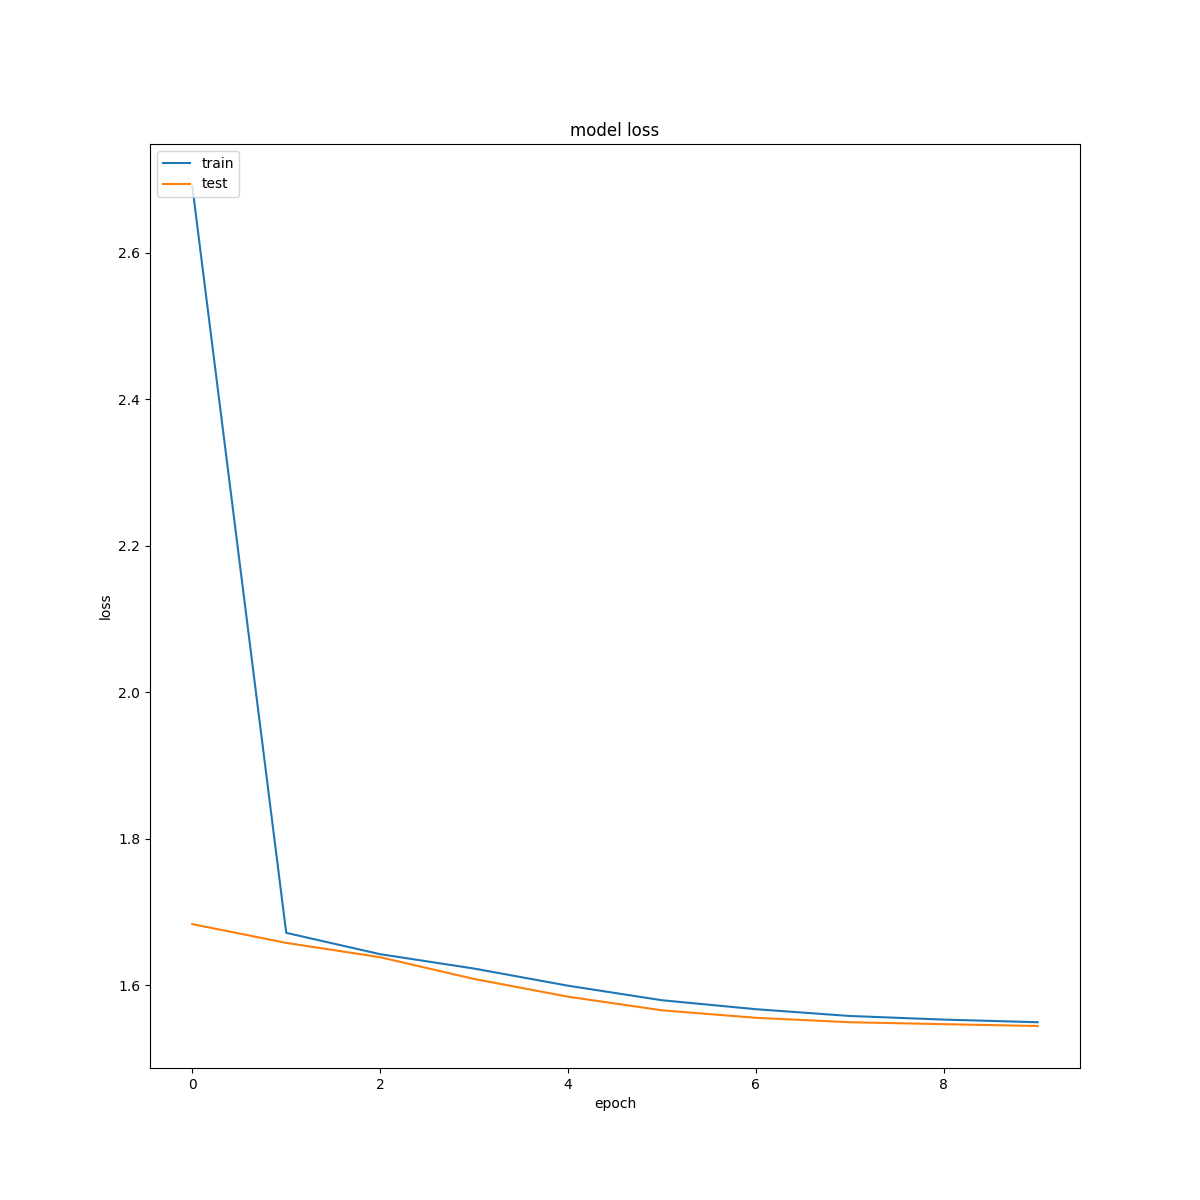
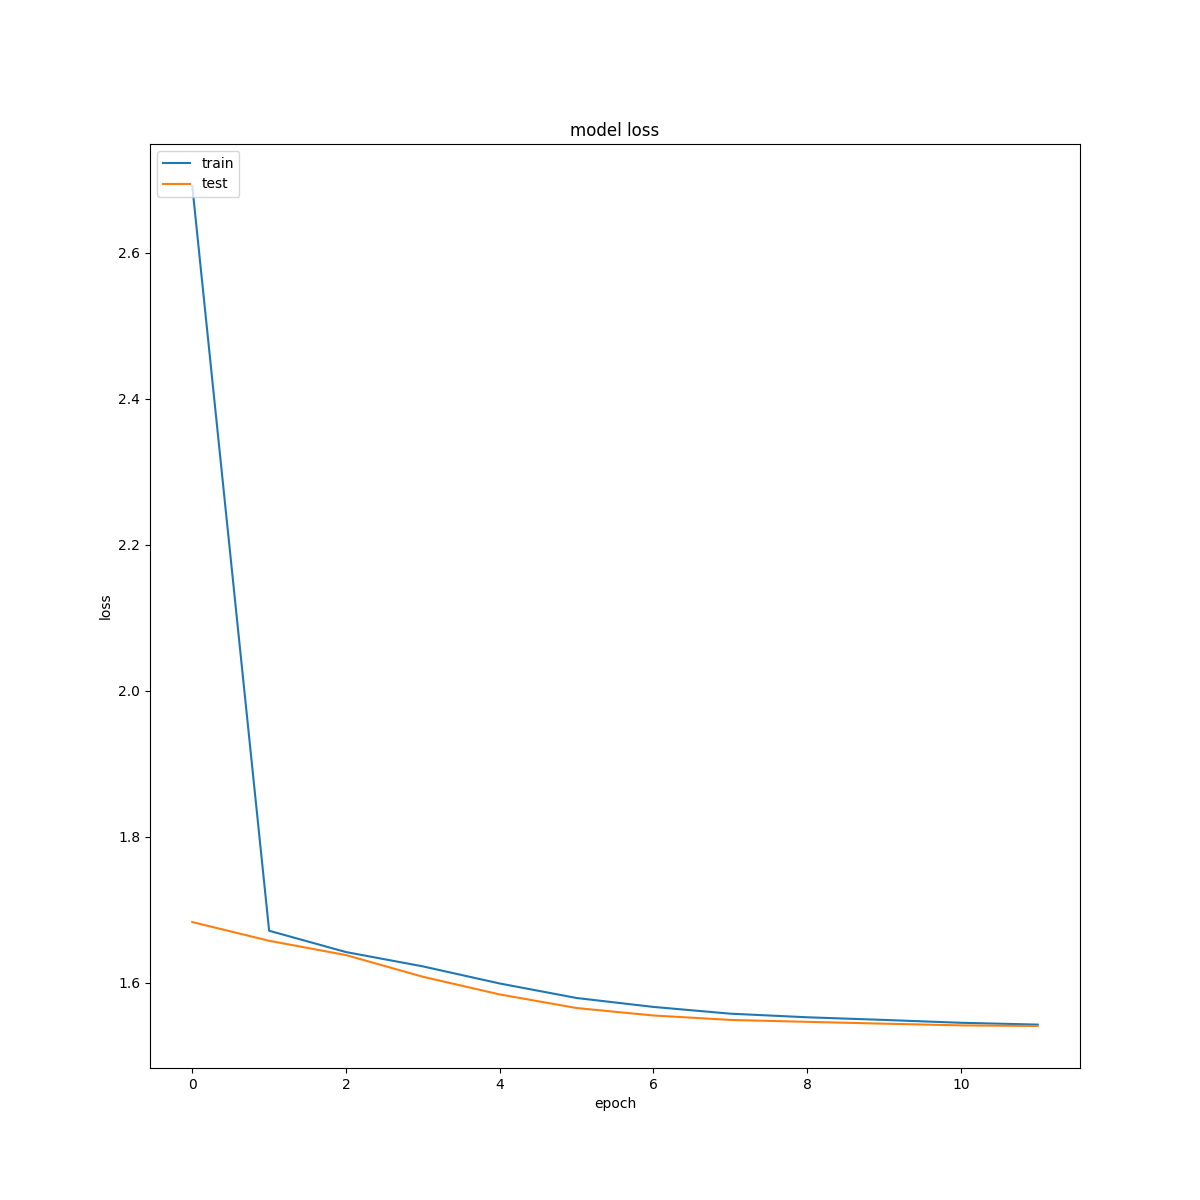
sem overfitting

diff --git a/model/next_poi_category_prediction_models/gowalla/stf/stf.py b/model/next_poi_category_prediction_models/gowalla/stf/stf.py
@@ -30,8 +30,8 @@ class STF:
         simple_rnn_units = 10
         n = 2
 
-        emb1 = Embedding(input_dim=location_input_dim, output_dim=3, input_length=step_size)
-        emb2 = Embedding(input_dim=24, output_dim=3, input_length=step_size)
+        emb1 = Embedding(input_dim=location_input_dim, output_dim=7, input_length=step_size)
+        emb2 = Embedding(input_dim=24, output_dim=5, input_length=step_size)
 
         spatial_embedding = emb1(location_category_input)
         temporal_embedding = emb2(temporal_input)
@@ -41,7 +41,7 @@ class STF:
         # Unlike LSTM, the GRU can find correlations between location/events
         # separated by longer times (bigger sentences)
         srnn = SimpleRNN(simple_rnn_units)(concat_1)
-        drop_1 = Dropout(0.3)(srnn)
+        drop_1 = Dropout(0.5)(srnn)
         y_srnn = Dense(location_input_dim, activation='softmax')(drop_1)
 
         model = Model(inputs=[location_category_input, temporal_input, country_input, distance_input, duration_input, week_day_input, user_id_input], outputs=[y_srnn], name="STF_RNN_baseline")

diff --git a/job/next_poi_category_prediction_job.py b/job/next_poi_category_prediction_job.py
@@ -20,7 +20,7 @@ class NextPoiCategoryPredictionJob:
 
         sequences_size = self.next_poi_category_prediction_configuration.SEQUENCES_SIZE[1][dataset_name]
         n_splits = self.next_poi_category_prediction_configuration.N_SPLITS[1]
-        epochs = self.next_poi_category_prediction_configuration.EPOCHS[1]
+        epochs = self.next_poi_category_prediction_configuration.EPOCHS[1][dataset_name][model_name]
         n_replications = self.next_poi_category_prediction_configuration.N_REPLICATIONS[1]
         batch = self.next_poi_category_prediction_configuration.BATCH[1][dataset_name][model_name]
 

diff --git a/configuration/next_poi_category_prediciton_configuration.py b/configuration/next_poi_category_prediciton_configuration.py
@@ -13,7 +13,8 @@ class NextPoiCategoryPredictionConfiguration:
 
         self.N_SPLITS = ("n_splits", 5)
 
-        self.EPOCHS = ("epochs", 10)
+        self.EPOCHS = ("epochs", {'users_steps': {'mfa': 200, 'serm': 200, 'map': 200, 'stf': 200, 'next': 200, 'garg': 200},
+                                'gowalla': {'mfa': 12, 'serm': 400, 'map': 400, 'stf': 10, 'next': 400, 'garg': 12}})
 
         self.N_REPLICATIONS = ("n_replications", 1)
 

diff --git a/model/next_poi_category_prediction_models/gowalla/mfa_rnn.py b/model/next_poi_category_prediction_models/gowalla/mfa_rnn.py
@@ -10,7 +10,7 @@ from model.next_poi_category_prediction_models.neural_network_base_model import 
 import numpy as np
 import tensorflow as tf
 
-from spektral.layers.convolutional import ARMAConv, GCNConv
+from spektral.layers.convolutional import ARMAConv, GCNConv, GATConv
 
 l2_reg = 5e-5           # L2 regularization rate
 drop_out_rate = 0
